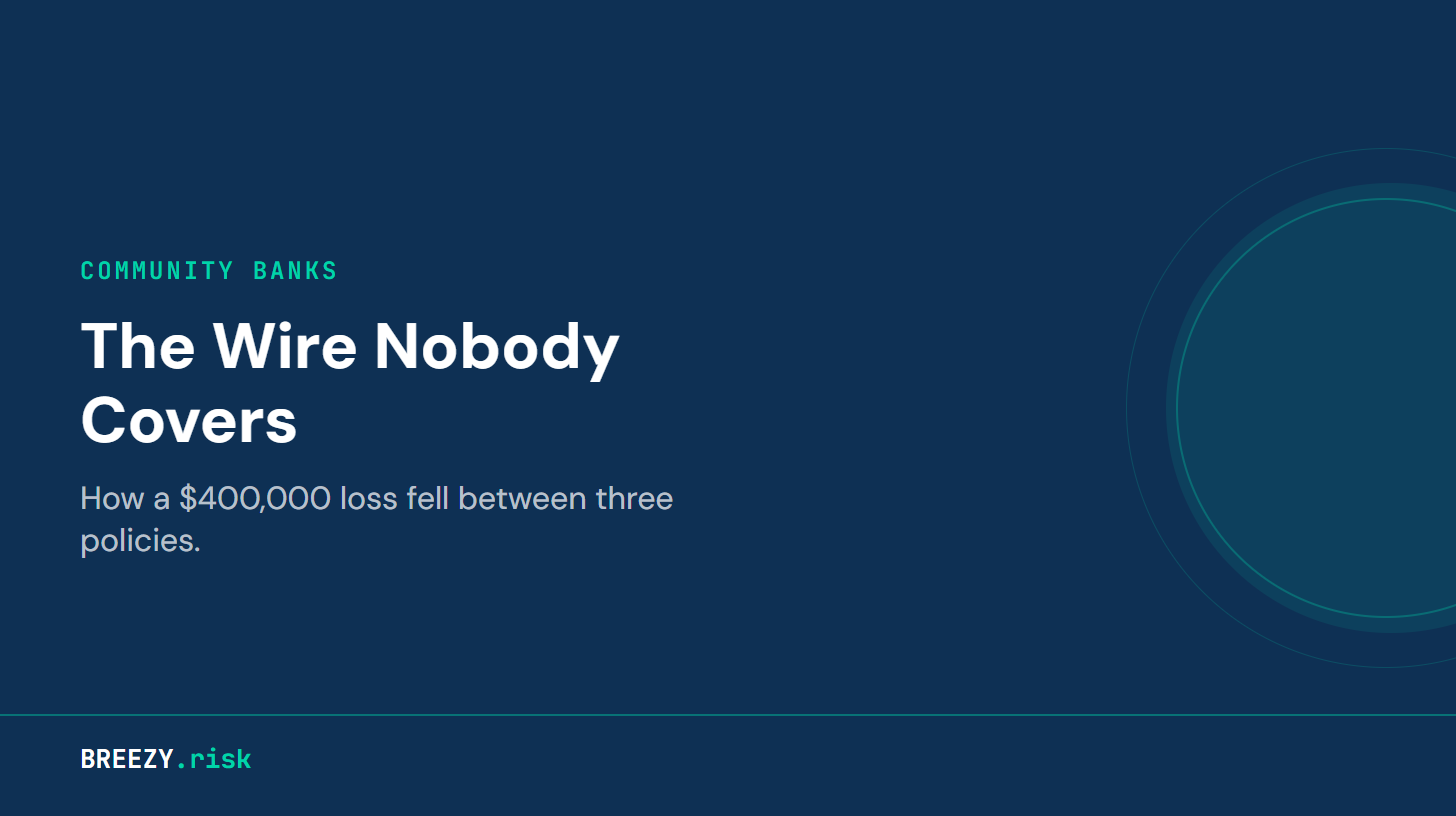
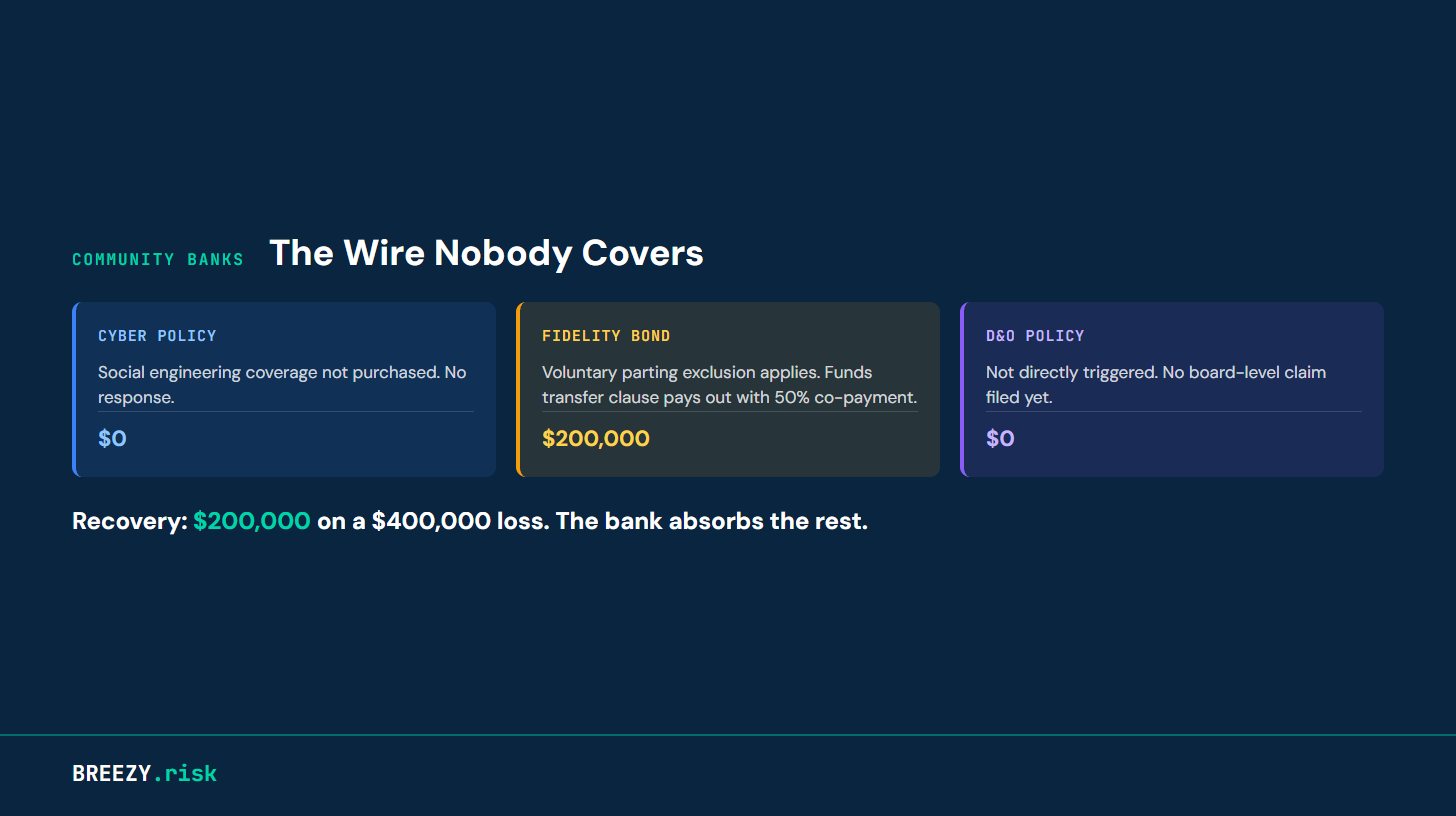
Redesign Wire Nobody Covers: cover image, court cases, checklist styling
Cover image: three-box policy breakdown layout replacing plain title card.
Blog post: shortened Alloy source link, styled court cases with blue left
border, styled checklist as numbered teal circles with card background.

diff --git a/assets/images/blog-header-wire-nobody-covers.html b/assets/images/blog-header-wire-nobody-covers.html
@@ -12,57 +12,21 @@
         body {
             margin: 0;
             padding: 0;
-            background: #0E3054;
+            background: #0A2540;
             overflow: hidden;
         }
 
         .header-image {
             width: 100vw;
             height: 100vh;
-            background: #0E3054;
+            background: #0A2540;
             position: relative;
             overflow: hidden;
         }
 
-        .circle {
-            position: absolute;
-            width: 450px;
-            height: 450px;
-            border-radius: 50%;
-            background: #00D4AA;
-            opacity: 0.10;
-            right: -160px;
-            top: 50%;
-            transform: translateY(-50%);
-        }
-
-        .circle-ring {
-            position: absolute;
-            width: 420px;
-            height: 420px;
-            border-radius: 50%;
-            border: 2px solid #00D4AA;
-            opacity: 0.30;
-            right: -140px;
-            top: 50%;
-            transform: translateY(-50%);
-        }
-
-        .circle-ring-outer {
-            position: absolute;
-            width: 520px;
-            height: 520px;
-            border-radius: 50%;
-            border: 1.5px solid #00D4AA;
-            opacity: 0.18;
-            right: -190px;
-            top: 50%;
-            transform: translateY(-50%);
-        }
-
         .accent-line {
             position: absolute;
-            bottom: 100px;
+            bottom: 80px;
             left: 0;
             right: 0;
             height: 2px;
@@ -76,46 +40,117 @@
             left: 0;
             right: 0;
             bottom: 0;
-            padding: 72px 80px;
+            padding: 52px 72px 100px;
             display: flex;
             flex-direction: column;
             justify-content: center;
         }
 
+        .top-row {
+            display: flex;
+            align-items: baseline;
+            gap: 24px;
+            margin-bottom: 28px;
+        }
+
         .category {
             font-family: 'JetBrains Mono', monospace;
-            font-size: 24px;
+            font-size: 16px;
             font-weight: 600;
             letter-spacing: 0.12em;
             text-transform: uppercase;
             color: #00D4AA;
-            margin-bottom: 24px;
         }
 
         .title {
             font-family: 'DM Sans', sans-serif;
-            font-size: 64px;
+            font-size: 36px;
             font-weight: 700;
             color: #FFFFFF;
             line-height: 1.15;
-            margin-bottom: 20px;
-            max-width: 720px;
         }
 
-        .subtitle {
+        .boxes {
+            display: flex;
+            gap: 20px;
+        }
+
+        .policy-box {
+            flex: 1;
+            border-radius: 10px;
+            padding: 24px 22px;
+            display: flex;
+            flex-direction: column;
+        }
+
+        .box-cyber {
+            background: rgba(59, 130, 246, 0.12);
+            border-left: 4px solid #3B82F6;
+        }
+
+        .box-bond {
+            background: rgba(245, 158, 11, 0.12);
+            border-left: 4px solid #F59E0B;
+        }
+
+        .box-do {
+            background: rgba(139, 92, 246, 0.12);
+            border-left: 4px solid #8B5CF6;
+        }
+
+        .box-label {
+            font-family: 'JetBrains Mono', monospace;
+            font-size: 15px;
+            font-weight: 600;
+            letter-spacing: 0.06em;
+            text-transform: uppercase;
+            margin-bottom: 14px;
+        }
+
+        .box-cyber .box-label { color: #93C5FD; }
+        .box-bond .box-label { color: #FCD34D; }
+        .box-do .box-label { color: #C4B5FD; }
+
+        .box-text {
             font-family: 'DM Sans', sans-serif;
-            font-size: 32px;
+            font-size: 17px;
             font-weight: 400;
-            color: rgba(255, 255, 255, 0.7);
-            max-width: 600px;
+            color: rgba(255, 255, 255, 0.8);
+            line-height: 1.5;
+            flex: 1;
+        }
+
+        .box-result {
+            font-family: 'DM Sans', sans-serif;
+            font-size: 22px;
+            font-weight: 700;
+            margin-top: auto;
+            padding-top: 12px;
+            border-top: 1px solid rgba(255, 255, 255, 0.15);
+        }
+
+        .box-cyber .box-result { color: #93C5FD; }
+        .box-bond .box-result { color: #FCD34D; }
+        .box-do .box-result { color: #C4B5FD; }
+
+        .recovery {
+            margin-top: 28px;
+            font-family: 'DM Sans', sans-serif;
+            font-size: 24px;
+            font-weight: 700;
+            color: #FFFFFF;
+        }
+
+        .recovery .amount {
+            color: #00D4AA;
         }
 
         .logo {
             position: absolute;
-            bottom: 40px;
-            left: 80px;
+            bottom: 28px;
+            left: 72px;
             font-family: 'JetBrains Mono', monospace;
-            font-size: 26px;
+            font-size: 22px;
             font-weight: 700;
             color: #FFFFFF;
         }
@@ -128,15 +163,35 @@
 <body>
 
 <div class="header-image">
-    <div class="circle"></div>
-    <div class="circle-ring"></div>
-    <div class="circle-ring-outer"></div>
     <div class="accent-line"></div>
 
     <div class="content">
-        <div class="category">Community Banks</div>
-        <div class="title">The Wire Nobody Covers</div>
-        <div class="subtitle">How a $400,000 loss fell between three policies.</div>
+        <div class="top-row">
+            <div class="category">Community Banks</div>
+            <div class="title">The Wire Nobody Covers</div>
+        </div>
+
+        <div class="boxes">
+            <div class="policy-box box-cyber">
+                <div class="box-label">Cyber Policy</div>
+                <div class="box-text">Social engineering coverage not purchased. No response.</div>
+                <div class="box-result">$0</div>
+            </div>
+
+            <div class="policy-box box-bond">
+                <div class="box-label">Fidelity Bond</div>
+                <div class="box-text">Voluntary parting exclusion applies. Funds transfer clause pays out with 50% co-payment.</div>
+                <div class="box-result">$200,000</div>
+            </div>
+
+            <div class="policy-box box-do">
+                <div class="box-label">D&amp;O Policy</div>
+                <div class="box-text">Not directly triggered. No board-level claim filed yet.</div>
+                <div class="box-result">$0</div>
+            </div>
+        </div>
+
+        <div class="recovery">Recovery: <span class="amount">$200,000</span> on a $400,000 loss. The bank absorbs the rest.</div>
     </div>
 
     <div class="logo">BREEZY<span class="teal">.risk</span></div>

diff --git a/_posts/2026-03-27-the-wire-nobody-covers.md b/_posts/2026-03-27-the-wire-nobody-covers.md
@@ -50,7 +50,7 @@ Recovery: $200,000 on a $400,000 loss. The bank absorbs the rest.
 
 ## This Is Not a One-in-a-Million Scenario
 
-About 80 percent of community bank and credit union decision-makers reported more than $500,000 in total fraud losses in the prior year, the highest of any segment surveyed, including enterprise banks and fintechs ([Alloy 2024 State of Fraud Benchmark Report](https://www.alloy.com/resources/state-of-fraud-benchmark-report)).
+About 80 percent of community bank and credit union decision-makers reported more than $500,000 in total fraud losses in the prior year, the highest of any segment surveyed, including enterprise banks and fintechs ([Alloy, 2024 Fraud Benchmark](https://www.alloy.com/resources/state-of-fraud-benchmark-report)).
 
 The pattern repeats because the same gap exists at institution after institution: the cyber policy says this is a crime, not a cyber event. The fidelity bond says the employee acted voluntarily. Both carriers point at each other. The bank holds the loss.
 
@@ -58,9 +58,15 @@ The pattern repeats because the same gap exists at institution after institution
 
 Federal courts have ruled on this pattern repeatedly. The answer is consistent: if the employee had authority to send the wire and chose to send it, the fact that he was deceived does not change the outcome. The bond treats it as voluntary.
 
-In **Midlothian Enterprises v. Owners Insurance** (Virginia, 2020), Midlothian, a property management company, had an employee wire $42,000 based on a fraudulent email impersonating the company president. The crime policy was issued by Owners Insurance, a subsidiary of Auto-Owners Insurance Group, one of the largest mutual insurers in the country. The court held that the voluntary parting exclusion "unambiguously" bars coverage. The employee had authority. She acted willingly. The fact that someone tricked her into it did not make the transfer involuntary. The loss amount was small. The legal principle is not.
+<div style="border-left: 3px solid #3B82F6; padding: 12px 20px; margin: 20px 0; color: #333;">
+<strong>Midlothian Enterprises v. Owners Insurance</strong> (Virginia, 2020)<br>
+Midlothian, a property management company, had an employee wire $42,000 based on a fraudulent email impersonating the company president. The crime policy was issued by Owners Insurance, a subsidiary of Auto-Owners Insurance Group, one of the largest mutual insurers in the country. The court held that the voluntary parting exclusion "unambiguously" bars coverage. The employee had authority. She acted willingly. The fact that someone tricked her into it did not make the transfer involuntary. The loss amount was small. The legal principle is not.
+</div>
 
-In **SJ Computers v. Travelers** (Minnesota, 2022), SJ Computers, an IT company, lost nearly $600,000 to fake vendor invoices sent from a lookalike email address. The company's commercial crime policy had two applicable coverages: Computer Fraud at $1 million and Social Engineering at $100,000. The court ruled that the two do not overlap. Because no system was hacked, the loss was classified as social engineering, and recovery was capped at $100,000. The company absorbed 83% of the loss.
+<div style="border-left: 3px solid #3B82F6; padding: 12px 20px; margin: 20px 0; color: #333;">
+<strong>SJ Computers v. Travelers</strong> (Minnesota, 2022)<br>
+SJ Computers, an IT company, lost nearly $600,000 to fake vendor invoices sent from a lookalike email address. The company's commercial crime policy had two applicable coverages: Computer Fraud at $1 million and Social Engineering at $100,000. The court ruled that the two do not overlap. Because no system was hacked, the loss was classified as social engineering, and recovery was capped at $100,000. The company absorbed 83% of the loss.
+</div>
 
 These cases involve general businesses, not banks. The legal principles apply the same way to a financial institution bond. No published court case exists where a community bank was the policyholder in a social engineering coverage dispute. Banks settle these quietly. The gap is the same. It just does not make it to a published opinion.
 
@@ -70,11 +76,20 @@ The community bank in this scenario added social engineering coverage to its cyb
 
 Three things to check now:
 
-**1. If you do not have social engineering coverage on your cyber policy, add it.** This is the most common gap I find when reviewing community bank cyber policies. The option is usually available on the form. It just was not selected.
-
-**2. Check the social engineering limit on your fidelity bond.** If it is $100,000 or $250,000, that is too little for any community bank handling wire transfers. Make sure it matches your Computer Fraud limit, or get as close as you can.
-
-**3. Eliminate or reduce the co-payment.** A 50 percent co-payment on a funds transfer clause means the bank absorbs half of every loss, even when the coverage responds. On a $400,000 wire fraud, that is $200,000 out of the bank's pocket. The co-payment can often be negotiated down or removed at renewal.
+<div style="background: #f8faf9; border-radius: 10px; padding: 28px 32px; margin: 24px 0;">
+<div style="display: flex; gap: 16px; margin-bottom: 20px;">
+<div style="min-width: 32px; height: 32px; background: #00D4AA; border-radius: 50%; display: flex; align-items: center; justify-content: center; font-weight: 700; color: #0A2540; font-size: 16px;">1</div>
+<div><strong>If you do not have social engineering coverage on your cyber policy, add it.</strong> This is the most common gap I find when reviewing community bank cyber policies. The option is usually available on the form. It just was not selected.</div>
+</div>
+<div style="display: flex; gap: 16px; margin-bottom: 20px;">
+<div style="min-width: 32px; height: 32px; background: #00D4AA; border-radius: 50%; display: flex; align-items: center; justify-content: center; font-weight: 700; color: #0A2540; font-size: 16px;">2</div>
+<div><strong>Check the social engineering limit on your fidelity bond.</strong> If it is $100,000 or $250,000, that is too little for any community bank handling wire transfers. Make sure it matches your Computer Fraud limit, or get as close as you can.</div>
+</div>
+<div style="display: flex; gap: 16px;">
+<div style="min-width: 32px; height: 32px; background: #00D4AA; border-radius: 50%; display: flex; align-items: center; justify-content: center; font-weight: 700; color: #0A2540; font-size: 16px;">3</div>
+<div><strong>Eliminate or reduce the co-payment.</strong> A 50 percent co-payment on a funds transfer clause means the bank absorbs half of every loss, even when the coverage responds. On a $400,000 wire fraud, that is $200,000 out of the bank's pocket. The co-payment can often be negotiated down or removed at renewal.</div>
+</div>
+</div>
 
 You cannot fix what you have not checked.
 
